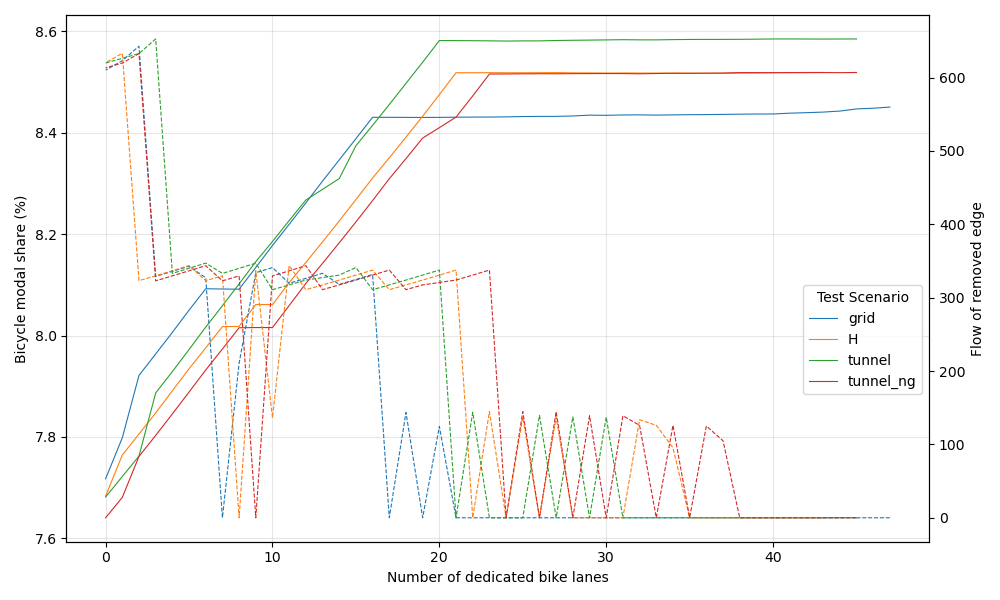
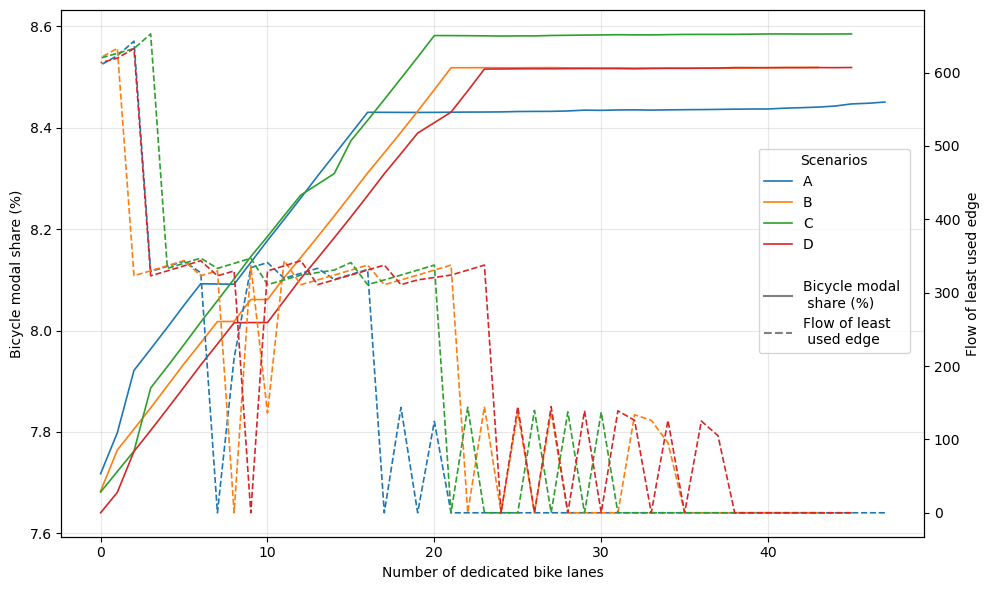
update of figure

Changed region(s): [[0.0, 0.0, 1.0, 0.9763], [0.7887, 0.3356, 0.819, 0.4271], [0.7887, 0.2441, 0.8797, 0.2746]]

diff --git a/plot_optimization.py b/plot_optimization.py
@@ -29,127 +29,142 @@ from utils_network_processing import *
 # plt.show()
 
 
+import matplotlib.lines as mlines
+
 # list_test_name = ["grid_CAP", "H_CAP", "tunnel_CAP", "tunnel_ng_CAP"]
+# new_labels = ["A","B", "C", "D"]
 # list_color = ['tab:blue', 'tab:orange', 'tab:green', 'tab:red']
-#
 # fig, ax1 = plt.subplots(figsize=(10, 6))
-# # Create the second axes that shares the same x-axis
 # ax2 = ax1.twinx()
+# line_handles = []
 #
-# for test_name, color in zip(list_test_name, list_color):
-#      # Load data
+# for i, (test_name, color) in enumerate(zip(list_test_name, list_color)):
 #      fp = f"output/_hEART_article/csv/optimization/{test_name}_rgo_results_df_opt.csv"
 #      df = pd.read_csv(fp)
 #
-#      # Plot primary Y (Solid line)
-#      df.plot(kind='line', x="nbr_bike_lanes", y="modal_share_bike",
-#              ax=ax1, color=color, label=test_name, linewidth=0.8)
+#      # Plot primaire
+#      l1, = ax1.plot(df["nbr_bike_lanes"], df["modal_share_bike"],
+#                     color=color, label=new_labels[i], linewidth=1.2)
+#      line_handles.append(l1)
+#      # Plot secondaire (on ne met pas de label ici pour ne pas polluer la liste)
+#      ax2.plot(df["nbr_bike_lanes"], df["flow_of_removed_edge"],
+#               color=color, linestyle='--', linewidth=1.2)
 #
-#      # Plot secondary Y (Dashed line)
-#      df.plot(kind='line', x="nbr_bike_lanes", y="flow_of_removed_edge",
-#              ax=ax2, color=color, linestyle='--', legend=False, linewidth=0.8)
+# # --- GESTION DE LA LÉGENDE PERSONNALISÉE ---
+# style_solid = mlines.Line2D([], [], color='grey', label='Bicycle modal \n share (%)')
+# style_dashed = mlines.Line2D([], [], color='grey', linestyle='--', label='Flow of least \n used edge')
+# # 2. Créer des entrées fictives pour expliquer les styles de lignes
+# line_solid = mlines.Line2D([], [], color='black', label='Bicycle modal share (%)')
+# line_dashed = mlines.Line2D([], [], color='black', linestyle='--', label='Flow of least used edge')
 #
-#
-# # Formatting
-# ax1.set_xlabel("Number of dedicated bike lanes")
-# ax1.set_ylabel("Bicycle modal share (%)", color='black')
-# ax2.set_ylabel("Flow of removed edge", color='black')
-# ax1.grid(True, alpha=0.3)
-#
-# # Handle combined legend if necessary (ax1 will only show solid lines)
-# ax1.legend(title="Test Scenario", bbox_to_anchor=(1, 0.7))
-#
-#
-# plt.tight_layout()
-# # plt.show()
-#
-# plt.savefig("output/_hEART_article/figures/_results/CAP_mode_share_nbr_bike_lane.png")
-
-
-
-
-# list_test_name = ["grid", "H", "tunnel", "tunnel_ng"]
-# list_color = ['tab:blue', 'tab:orange', 'tab:green', 'tab:red']
-#
-# fig, ax1 = plt.subplots(figsize=(10, 6))
-#
-# for test_name, color in zip(list_test_name, list_color):
-#     # Chargement des données
-#     df = pd.read_csv(f"output/_hEART_article/csv/optimization/{test_name}_rgo_results_df_opt.csv")
-#     df_CAP = pd.read_csv(f"output/_hEART_article/csv/optimization/{test_name}_CAP_rgo_results_df_opt.csv")
-#
-#     # Scénario Standard (Plein)
-#     df.plot(kind='line', x="nbr_bike_lanes", y="modal_share_bike",
-#              ax=ax1, color=color, linestyle='--', label=test_name, linewidth=0.8)
-#
-#     # Scénario CAP (Pointillé)
-#     df_CAP.plot(kind='line', x="nbr_bike_lanes", y="modal_share_bike",
-#              ax=ax1, color=color, label=test_name+" with capacity", linewidth=0.8)
+# all_handles = line_handles + [mlines.Line2D([], [], linestyle='None'), style_solid, style_dashed]
 #
 #
-# ax1.legend(bbox_to_anchor=(1, 0.8), title="Test Scenario",labelspacing=0.3, fontsize='small')
 #
-# # Mise en forme finale
+# ax1.legend(handles=all_handles, loc='upper left', bbox_to_anchor=(0.8, 0.75), title="Scenarios")
+#
+#
+# # --- FIN FORMATTING ---
 # ax1.set_xlabel("Number of dedicated bike lanes")
 # ax1.set_ylabel("Bicycle modal share (%)")
+# ax2.set_ylabel("Flow of least used edge")
 # ax1.grid(True, alpha=0.3)
 #
 # plt.tight_layout()
-# # plt.show()
+# # plt.savefig("output/_hEART_article/figures/_results/mode_share_nbr_bike_lane.png", bbox_inches='tight')
+# plt.show()
+
+
+
+
+list_test_name = ["grid", "H", "tunnel", "tunnel_ng"]
+list_color = ['tab:blue', 'tab:orange', 'tab:green', 'tab:red']
+new_labels = ["A","B", "C", "D"]
+fig, ax1 = plt.subplots(figsize=(10, 6))
+line_handles = []
+for i, (test_name, color) in enumerate(zip(list_test_name, list_color)):
+    df = pd.read_csv(f"output/_hEART_article/csv/optimization/{test_name}_rgo_results_df_opt.csv")
+    df_CAP = pd.read_csv(f"output/_hEART_article/csv/optimization/{test_name}_CAP_rgo_results_df_opt.csv")
+
+    # Plot primaire
+    l1, = ax1.plot(df["nbr_bike_lanes"], df["modal_share_bike"],
+                     color=color, label=new_labels[i], linewidth=1.2, linestyle='--')
+    l1_bis, = ax1.plot(df_CAP["nbr_bike_lanes"], df_CAP["modal_share_bike"],
+                   color=color, label=new_labels[i], linewidth=1.2)
+    line_handles.append(l1_bis)
+
+style_solid = mlines.Line2D([], [], color='grey', label='Capacity Aware \n Model')
+style_dashed = mlines.Line2D([], [], color='grey', linestyle='--', label='Base Model')
+# # 2. Créer des entrées fictives pour expliquer les styles de lignes
+line_solid = mlines.Line2D([], [], color='black', label='Base Model')
+line_dashed = mlines.Line2D([], [], color='black', linestyle='--', label='Capacity Aware Model')
 #
-# plt.savefig("output/_hEART_article/figures/_results/comparison_CAP_mode_share_nbr_bike_lane.png")
+all_handles = line_handles + [mlines.Line2D([], [], linestyle='None'), style_solid, style_dashed]
+#
 
-fig, ax = plt.subplots(2,2, figsize=(20,20))
+ax1.legend(handles=all_handles, loc='upper left', bbox_to_anchor=(0.8, 0.79), title="Scenarios")
 
-edge_df = pd.read_csv("data/edges_tunnel.csv")
-edge_df_results_tunnel = pd.read_csv("output/_hEART_article/csv/optimization/tunnel_CAP_rgo_edge_results.csv")
-results_df_tunnel = pd.read_csv("output/_hEART_article/csv/optimization/tunnel_CAP_rgo_results_df_opt.csv")
-results_df_tunnel.drop("Unnamed: 0", axis=1, inplace=True)
-results_df_tunnel = results_df_tunnel.iloc[1:].reset_index(drop=True)
-results_df_tunnel["index_removed"] = results_df_tunnel["index_removed"].apply(ast.literal_eval)
-results_df_tunnel = results_df_tunnel.explode('index_removed')
-edge_df_results_tunnel = edge_df_results_tunnel.merge(results_df_tunnel, how="inner", left_on="id", right_on="index_removed")
-edge_df_results_tunnel.index = edge_df["id"]
-edge_df_results_tunnel.drop(
-        ["nbr_bike_lanes", "nbr_none_bike_lanes", "modal_share_car", "modal_share_bike",
-         "index_removed",
-         "flow_of_removed_edge"], axis=1, inplace=True)
-edge_df_results_tunnel.rename(columns={'iteration': 'iteration_of_removal'}, inplace=True)
+# Mise en forme finale
+ax1.set_xlabel("Number of dedicated bike lanes")
+ax1.set_ylabel("Bicycle modal share (%)")
+ax1.grid(True, alpha=0.3)
 
-edge_df_results_tunnel_ng = pd.read_csv("output/_hEART_article/csv/optimization/tunnel_ng_CAP_rgo_edge_results.csv")
-results_df_tunnel_ng = pd.read_csv("output/_hEART_article/csv/optimization/tunnel_ng_CAP_rgo_results_df_opt.csv")
-results_df_tunnel_ng.drop("Unnamed: 0", axis=1, inplace=True)
-results_df_tunnel_ng = results_df_tunnel_ng.iloc[1:].reset_index(drop=True)
-results_df_tunnel_ng["index_removed"] = results_df_tunnel_ng["index_removed"].apply(ast.literal_eval)
-results_df_tunnel_ng = results_df_tunnel_ng.explode('index_removed')
-edge_df_results_tunnel_ng = edge_df_results_tunnel_ng.merge(results_df_tunnel_ng, how="inner", left_on="id", right_on="index_removed")
-edge_df_results_tunnel_ng.index = edge_df["id"]
-edge_df_results_tunnel_ng.drop(
-        ["nbr_bike_lanes", "nbr_none_bike_lanes", "modal_share_car", "modal_share_bike",
-         "index_removed",
-         "flow_of_removed_edge"], axis=1, inplace=True)
-edge_df_results_tunnel_ng.rename(columns={'iteration': 'iteration_of_removal'}, inplace=True)
+plt.tight_layout()
+# plt.show()
+#
+plt.savefig("output/_hEART_article/figures/_results/comparison_CAP_mode_share_nbr_bike_lane.png")
 
-node_df = pd.read_csv("data/nodes_tunnel.csv")
-plot_network(edge_df_results_tunnel, node_df, node_id_col='id',
-                     node_label=True,
-                     color_col_num='iteration_of_removal',
-                     base_width=1,
-                     legend=True,
-                     title=f"With a park (tunnel)", ax=ax[0,0])
-plot_network(edge_df_results_tunnel_ng, node_df, node_id_col='id',
-                     node_label=True,
-                     color_col_num='iteration_of_removal',
-                     base_width=1,
-                     legend=True,
-                     title=f"Without a park (tunnel_ng)", ax=ax[0,1])
-plot_network(edge_df_results_tunnel, node_df, node_id_col='id',
-             node_label=True,
-                 color_col_num='coef_bi_0',base_width=1,cmap="hot_r",ax=ax[1,0], title=f"Bikeability coefficient \n (tunnel, bicycle lanes on all edges)")
-plot_network(edge_df_results_tunnel_ng, node_df, node_id_col='id',
-             node_label=True,
-                 color_col_num='coef_bi_0',base_width=1,cmap="hot_r",ax=ax[1,1],title=f"Bikeability coefficient \n (tunnel_ng, bicycle lanes on all edges)", vmin= 0.2)
-plt.savefig("output/_hEART_article/figures/_results/CAP_comparaison_tunnels.png")
+# fig, ax = plt.subplots(2,2, figsize=(20,20))
+#
+# edge_df = pd.read_csv("data/edges_tunnel.csv")
+# edge_df_results_tunnel = pd.read_csv("output/_hEART_article/csv/optimization/tunnel_CAP_rgo_edge_results.csv")
+# results_df_tunnel = pd.read_csv("output/_hEART_article/csv/optimization/tunnel_CAP_rgo_results_df_opt.csv")
+# results_df_tunnel.drop("Unnamed: 0", axis=1, inplace=True)
+# results_df_tunnel = results_df_tunnel.iloc[1:].reset_index(drop=True)
+# results_df_tunnel["index_removed"] = results_df_tunnel["index_removed"].apply(ast.literal_eval)
+# results_df_tunnel = results_df_tunnel.explode('index_removed')
+# edge_df_results_tunnel = edge_df_results_tunnel.merge(results_df_tunnel, how="inner", left_on="id", right_on="index_removed")
+# edge_df_results_tunnel.index = edge_df["id"]
+# edge_df_results_tunnel.drop(
+#         ["nbr_bike_lanes", "nbr_none_bike_lanes", "modal_share_car", "modal_share_bike",
+#          "index_removed",
+#          "flow_of_removed_edge"], axis=1, inplace=True)
+# edge_df_results_tunnel.rename(columns={'iteration': 'iteration_of_removal'}, inplace=True)
+#
+# edge_df_results_tunnel_ng = pd.read_csv("output/_hEART_article/csv/optimization/tunnel_ng_CAP_rgo_edge_results.csv")
+# results_df_tunnel_ng = pd.read_csv("output/_hEART_article/csv/optimization/tunnel_ng_CAP_rgo_results_df_opt.csv")
+# results_df_tunnel_ng.drop("Unnamed: 0", axis=1, inplace=True)
+# results_df_tunnel_ng = results_df_tunnel_ng.iloc[1:].reset_index(drop=True)
+# results_df_tunnel_ng["index_removed"] = results_df_tunnel_ng["index_removed"].apply(ast.literal_eval)
+# results_df_tunnel_ng = results_df_tunnel_ng.explode('index_removed')
+# edge_df_results_tunnel_ng = edge_df_results_tunnel_ng.merge(results_df_tunnel_ng, how="inner", left_on="id", right_on="index_removed")
+# edge_df_results_tunnel_ng.index = edge_df["id"]
+# edge_df_results_tunnel_ng.drop(
+#         ["nbr_bike_lanes", "nbr_none_bike_lanes", "modal_share_car", "modal_share_bike",
+#          "index_removed",
+#          "flow_of_removed_edge"], axis=1, inplace=True)
+# edge_df_results_tunnel_ng.rename(columns={'iteration': 'iteration_of_removal'}, inplace=True)
+#
+# node_df = pd.read_csv("data/nodes_tunnel.csv")
+# plot_network(edge_df_results_tunnel, node_df, node_id_col='id',
+#                      node_label=True,
+#                      color_col_num='iteration_of_removal',
+#                      base_width=1,
+#                      legend=True,
+#                      title=f"With a park (tunnel)", ax=ax[0,0])
+# plot_network(edge_df_results_tunnel_ng, node_df, node_id_col='id',
+#                      node_label=True,
+#                      color_col_num='iteration_of_removal',
+#                      base_width=1,
+#                      legend=True,
+#                      title=f"Without a park (tunnel_ng)", ax=ax[0,1])
+# plot_network(edge_df_results_tunnel, node_df, node_id_col='id',
+#              node_label=True,
+#                  color_col_num='coef_bi_0',base_width=1,cmap="hot_r",ax=ax[1,0], title=f"Bikeability coefficient \n (tunnel, bicycle lanes on all edges)")
+# plot_network(edge_df_results_tunnel_ng, node_df, node_id_col='id',
+#              node_label=True,
+#                  color_col_num='coef_bi_0',base_width=1,cmap="hot_r",ax=ax[1,1],title=f"Bikeability coefficient \n (tunnel_ng, bicycle lanes on all edges)", vmin= 0.2)
+# plt.savefig("output/_hEART_article/figures/_results/CAP_comparaison_tunnels.png")
 # plt.show()
 # KPI = "modal_share_bike"
 # CAP = False

diff --git a/plot_networks.py b/plot_networks.py
@@ -4,35 +4,43 @@ from utils_plotting import *
 from utils_network_processing import *
 import matplotlib.pyplot as plt
 
-list_test_name = ["grid","H","tunnel","tunnel_ng"]
-for test_name in list_test_name:
-    edge_df, node_df = import_network(f"data/edges_{test_name}.csv", f"data/nodes_{test_name}.csv")
-    plot_network(edge_df, node_df, node_id_col='id',base_width=1, node_label=True, title=f"{test_name} network")
-    plt.savefig(f"output/_hEART_article/figures/_networks/{test_name}_simple_network.png")
-    fig, ax = plt.subplots(1,2, figsize=(20,10))
-    plot_network(edge_df, node_df, node_id_col='id',
-                             node_label=True,
-                             color_col_num='green_overlap_percentage',
-                             base_width=1,
-                             legend=True,
-                             title=f"Network with green overlap percentage",cmap="Greens", ax=ax[0])
-    plot_network(edge_df, node_df, node_id_col='id',
-                             node_label=True,
-                             color_col_num='slope',
-                             base_width=1,
-                             legend=True,
-                             title=f"Network with slope",cmap="coolwarm", ax=ax[1])
-
-    plt.savefig(f"output/_hEART_article/figures/_networks/{test_name}_networks.png")
+# list_test_name = ["grid","H","tunnel","tunnel_ng"]
+# for test_name in list_test_name:
+#     edge_df, node_df = import_network(f"data/edges_{test_name}.csv", f"data/nodes_{test_name}.csv")
+#     plot_network(edge_df, node_df, node_id_col='id',base_width=1, node_label=True, title=f"{test_name} network")
+#     plt.savefig(f"output/_hEART_article/figures/_networks/{test_name}_simple_network.png")
+#     fig, ax = plt.subplots(1,2, figsize=(20,10))
+#     plot_network(edge_df, node_df, node_id_col='id',
+#                              node_label=True,
+#                              color_col_num='green_overlap_percentage',
+#                              base_width=1,
+#                              legend=True,
+#                              title=f"Network with green overlap percentage",cmap="Greens", ax=ax[0])
+#     plot_network(edge_df, node_df, node_id_col='id',
+#                              node_label=True,
+#                              color_col_num='slope',
+#                              base_width=1,
+#                              legend=True,
+#                              title=f"Network with slope",cmap="coolwarm", ax=ax[1])
+#
+#     plt.savefig(f"output/_hEART_article/figures/_networks/{test_name}_networks.png")
 
 list_test_name = ["grid","H","tunnel"]
-fig, ax = plt.subplots(1,3, figsize=(30,10))
+fig, ax = plt.subplots(1,3, figsize=(15,5))
 for i, test_name in enumerate(list_test_name):
     edge_df, node_df = import_network(f"data/edges_{test_name}.csv", f"data/nodes_{test_name}.csv")
     plot_network(edge_df, node_df, node_id_col='id',base_width=1, node_label=True, title=test_name, ax=ax[i])
+ax[0].set_title("Grid Network (scenario A)",fontsize=16)
+ax[1].set_title("H Network (scenario B)",fontsize=16)
+ax[2].set_title("Tunnel Network (scenario C and D)",fontsize=16)
+
 plt.savefig(f"output/_hEART_article/figures/_networks/_all_simple_network.png")
 
 # size_od = max(node_df['id']) + 1
 # od_df = generate_od_df(size_od, od_scenario="CORNER_2", max_demand=4000)
 # plot_od_matrix(convert_to_eaquilibrae_od_matrix(od_df), edge_df, node_df)
 # plt.savefig("output/figures/od_matrix.png")
+
+# edge_df, node_df = import_network(f"data/edges_tunnel.csv", f"data/nodes_tunnel.csv")
+# plot_network(edge_df, node_df, node_id_col='id',base_width=1, node_label=True, title=f"Test network (tunnel) with topology and green spaces", figsize= (10,10))
+# plt.savefig(f"output/_hEART_article/figures/_networks/empty_simple_network_tunnel.png", transparent=True)
